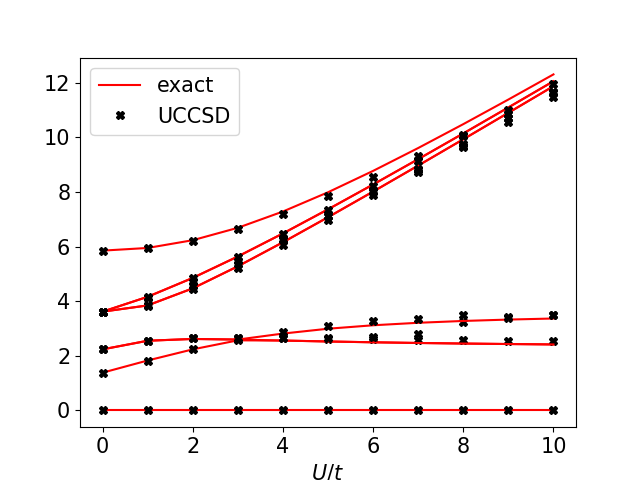
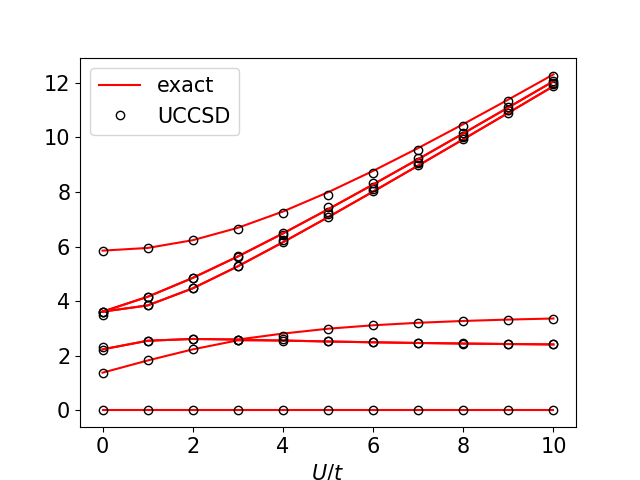
L = 5, N = 3

diff --git a/Figures/L = 5/grafs.py b/Figures/L = 5/grafs.py
@@ -14,12 +14,14 @@ from scipy.interpolate import interp1d
 
 nf = 10
 
-list2 =  pickle.load( open( "list51.p", "rb" ) )
-list1 =  pickle.load( open( "list52.p", "rb" ) )
+list2 =  pickle.load( open( "list3.p", "rb" ) )
+list1 =  pickle.load( open( "list4.p", "rb" ) )
 
 FI1 =[0,1,2,3,4,5, 6, 7, 8, 9,10]
 FI1 = np.array(FI1)
 
+list1[1] = list2[1]
+list1[2] = list2[2]
 
 eigenor= np.zeros((11,nf))
 eigennumor = np.zeros((11,nf))
@@ -42,9 +44,9 @@ plt.rc('axes', labelsize=15)
 plt.rc('font', size=15)  
 for i in range(nf-1):
    plt.plot(FI1, eigenor[:,i],'r-')
-   plt.plot(FI1, eigennumor[:,i],'kX')
+   plt.plot(FI1, eigennumor[:,i],'ko',mfc='none')
 plt.plot(FI1, eigenor[:,nf-1],'r-', mfc='none',label='exact')
-plt.plot(FI1, eigennumor[:,nf-1],'kX', label='UCCSD')
+plt.plot(FI1, eigennumor[:,nf-1],'ko', mfc='none',label='UCCSD')
 plt.legend(prop={"size":15},loc='upper left')
 plt.xlabel("$U/t$")
 plt.show()
@@ -53,9 +55,9 @@ plt.rc('axes', labelsize=15)
 plt.rc('font', size=15) 
 for i in range(nf-2):
    plt.plot(FI1, gap[:,i],'r-')
-   plt.plot(FI1, gapnum[:,i],'kX') 
+   plt.plot(FI1, gapnum[:,i],'ko',mfc='none') 
 plt.plot(FI1, gap[:,nf-2],'r-', mfc='none',label='exact')
-plt.plot(FI1, gapnum[:,nf-2],'kX', label='UCCSD')
+plt.plot(FI1, gapnum[:,nf-2],'ko',mfc='none', label='UCCSD')
 plt.legend(prop={"size":15},loc='upper left')
 plt.xlabel("$U/t$")
 plt.show()
@@ -81,7 +83,7 @@ for i in range(11):
 
 print("Total error: ", errorT/11)
 
-plt.plot(FI1, error,'kX',label='error')
+plt.plot(FI1, error,'ko',mfc='none',label='error')
 plt.legend(prop={"size":15},loc='upper left')
 plt.xlabel("$U/t$")
 plt.show()

diff --git a/newwfieldrun.py b/newwfieldrun.py
@@ -174,7 +174,6 @@ for j1 in range(len(Doubles)):
    AllD[j1] = UnD(Doubles[j1][0][0],Doubles[j1][0][1],Doubles[j1][1][0],Doubles[j1][1][1])[ni:ni+nf,ni:ni+nf]
 
 for j1 in range(len(res2)):
-   print(res2[j1],j1)
    AllS[j1] = UnS(res2[j1][0],res2[j1][1])[ni:ni+nf,ni:ni+nf]
 
 
